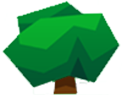
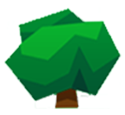
integration et fonction ressource

diff --git a/assets/js/app.js b/assets/js/app.js
@@ -226,3 +226,61 @@
 
 
 // ----------------------- Fin : ouverture / fermeture du shop ----------------------- //
+
+// ----------------------- Debut : ressource et compteur ----------------------- //
+
+var plateau= document.getElementById("jeu");
+
+var scoreRessourcesMetal = 0;
+var scoreRessourcesBois = 0;
+var scoreRessourcesPierre = 0;
+
+
+ressource1.innerHTML = scoreRessourcesMetal;
+ressource2.innerHTML = scoreRessourcesBois;
+ressource3.innerHTML = scoreRessourcesPierre;
+
+function selectionne(plateau) {
+    
+    if (plateau.target.getAttribute("class") == "metal") {
+        if (plateau.target.getAttribute("class", 'metal')) {
+            scoreRessourcesMetal = scoreRessourcesMetal + 1 ;
+            
+        }
+    }
+        ressource1.innerHTML = scoreRessourcesMetal;
+
+    if (plateau.target.getAttribute("class") == "bois") {
+            if (plateau.target.getAttribute("class", 'bois')) {
+            scoreRessourcesBois = scoreRessourcesBois + 1 ;
+            
+        }
+    }
+        ressource2.innerHTML = scoreRessourcesBois;
+
+    if (plateau.target.getAttribute("class") == "pierre") {
+        if (plateau.target.getAttribute("class", 'pierre')) {
+            scoreRessourcesPierre = scoreRessourcesPierre + 1 ;
+            
+        }
+    }
+        ressource3.innerHTML = scoreRessourcesPierre;
+}
+plateau.onclick = selectionne;
+
+// ----------------------- Fin : ressource et compteur ----------------------- //
+
+//------------------------- catastrophe -------------------------//
+/*
+*var dino = document.getElementById("catastrophe");
+*
+*function choas (){
+*   if ($element.classList.contains("none")) {
+*        element.classList.toggle("visible")
+*        scoreRessourcesMetal = scoreRessourcesMetal - 1;
+*        scoreRessourcesBois = scoreRessourcesBois - 1;
+*        scoreRessourcesPierre = scoreRessourcesPierre - 1;
+*    }
+*}
+*/
+//------------------------- fin catastrophe -------------------------//

diff --git a/assets/css/styles.css b/assets/css/styles.css
@@ -47,7 +47,6 @@ li {
 #central {
     width: 960px;
     height: 916px;
-
     border: 1px solid black;
 }
 
@@ -75,7 +74,8 @@ li {
 }
 
 #statistiques {
-
+    background-image: url(../img/fondStat_sansText.png);
+    background-size: cover;
 }
 
 .alignStat{
@@ -97,6 +97,19 @@ figure {
 }
 
 #ressources {
+   background-image: url(../img/fondRessource.png);
+   background-size: cover;
+}
+
+.bois {
+    background-image: url(../img/ressourceArbre.png);
+    background-size: cover;
+    /*position:relative; 
+    top: -5px;*/ 
+}
+.pierre {
+    background-image: url(../img/ressourcePierre.png);
+    background-size: cover;
 }
 
 /* ---------------- fin interieur bloc gauche ---------------- */
@@ -162,5 +175,24 @@ figure {
 #bonusMaitre {
 
 }
+
+/*---------------------- catastrophe --------------------*/
+
+#catastrophe {
+    background-image: url(../img/dino.png);
+    background-size: cover;
+    width: 155px;
+    height: 155px;
+    position: relative;
+}
+
+.none{
+    display: none;
+}
+
+.visible{
+    display: flex; 
+}
+/*------------------- fin catastrophe -------------------*/
 
 /* ---------------- fin interieur bloc droite ---------------- */

diff --git a/index.html b/index.html
@@ -105,6 +105,7 @@
             <div class="bloc-droite" id="objets">objets possedés</div>
             <figure class="bloc-droite" id="bonusMaitre">
                 <img id="lanceBonusMaitre" src="#" alt="Bonus clicker">
+                <div id="catastrophe" onclick="choas()" class="none"></div>
             </figure>
         </div>
 
